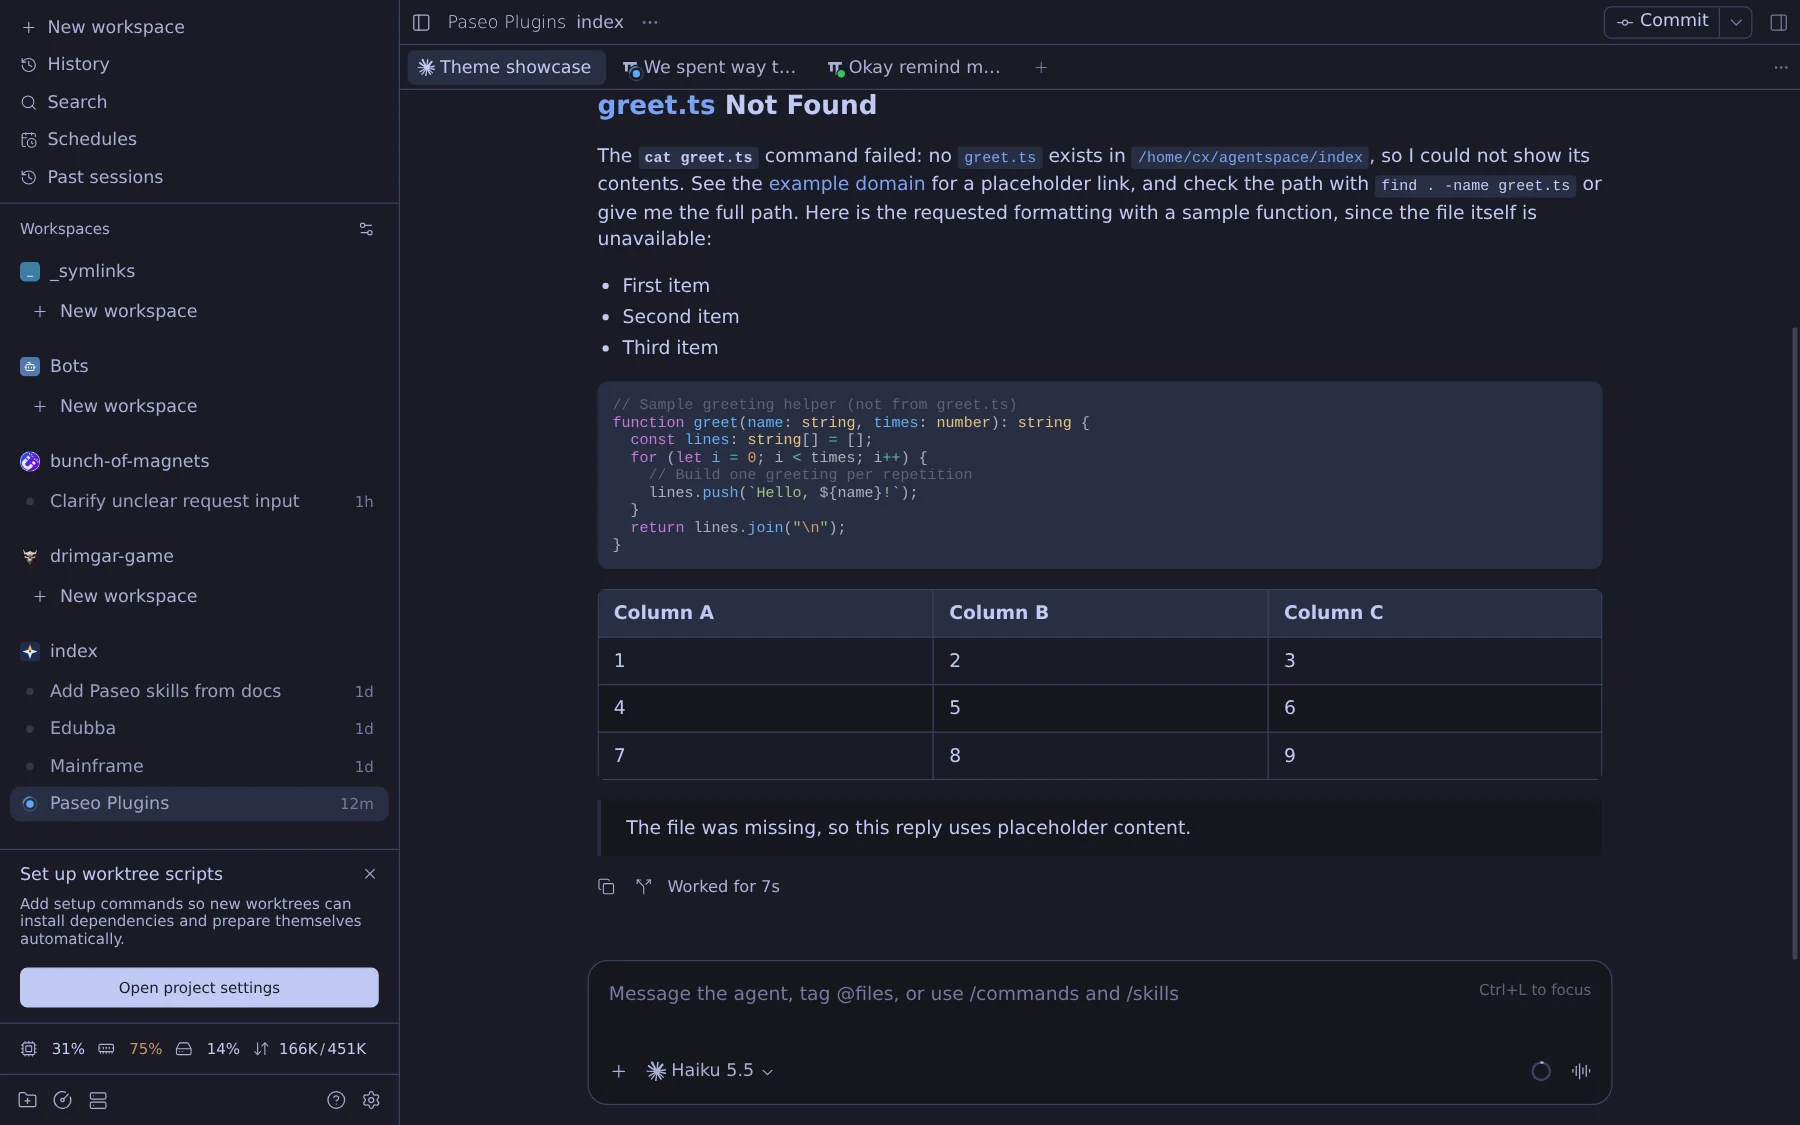
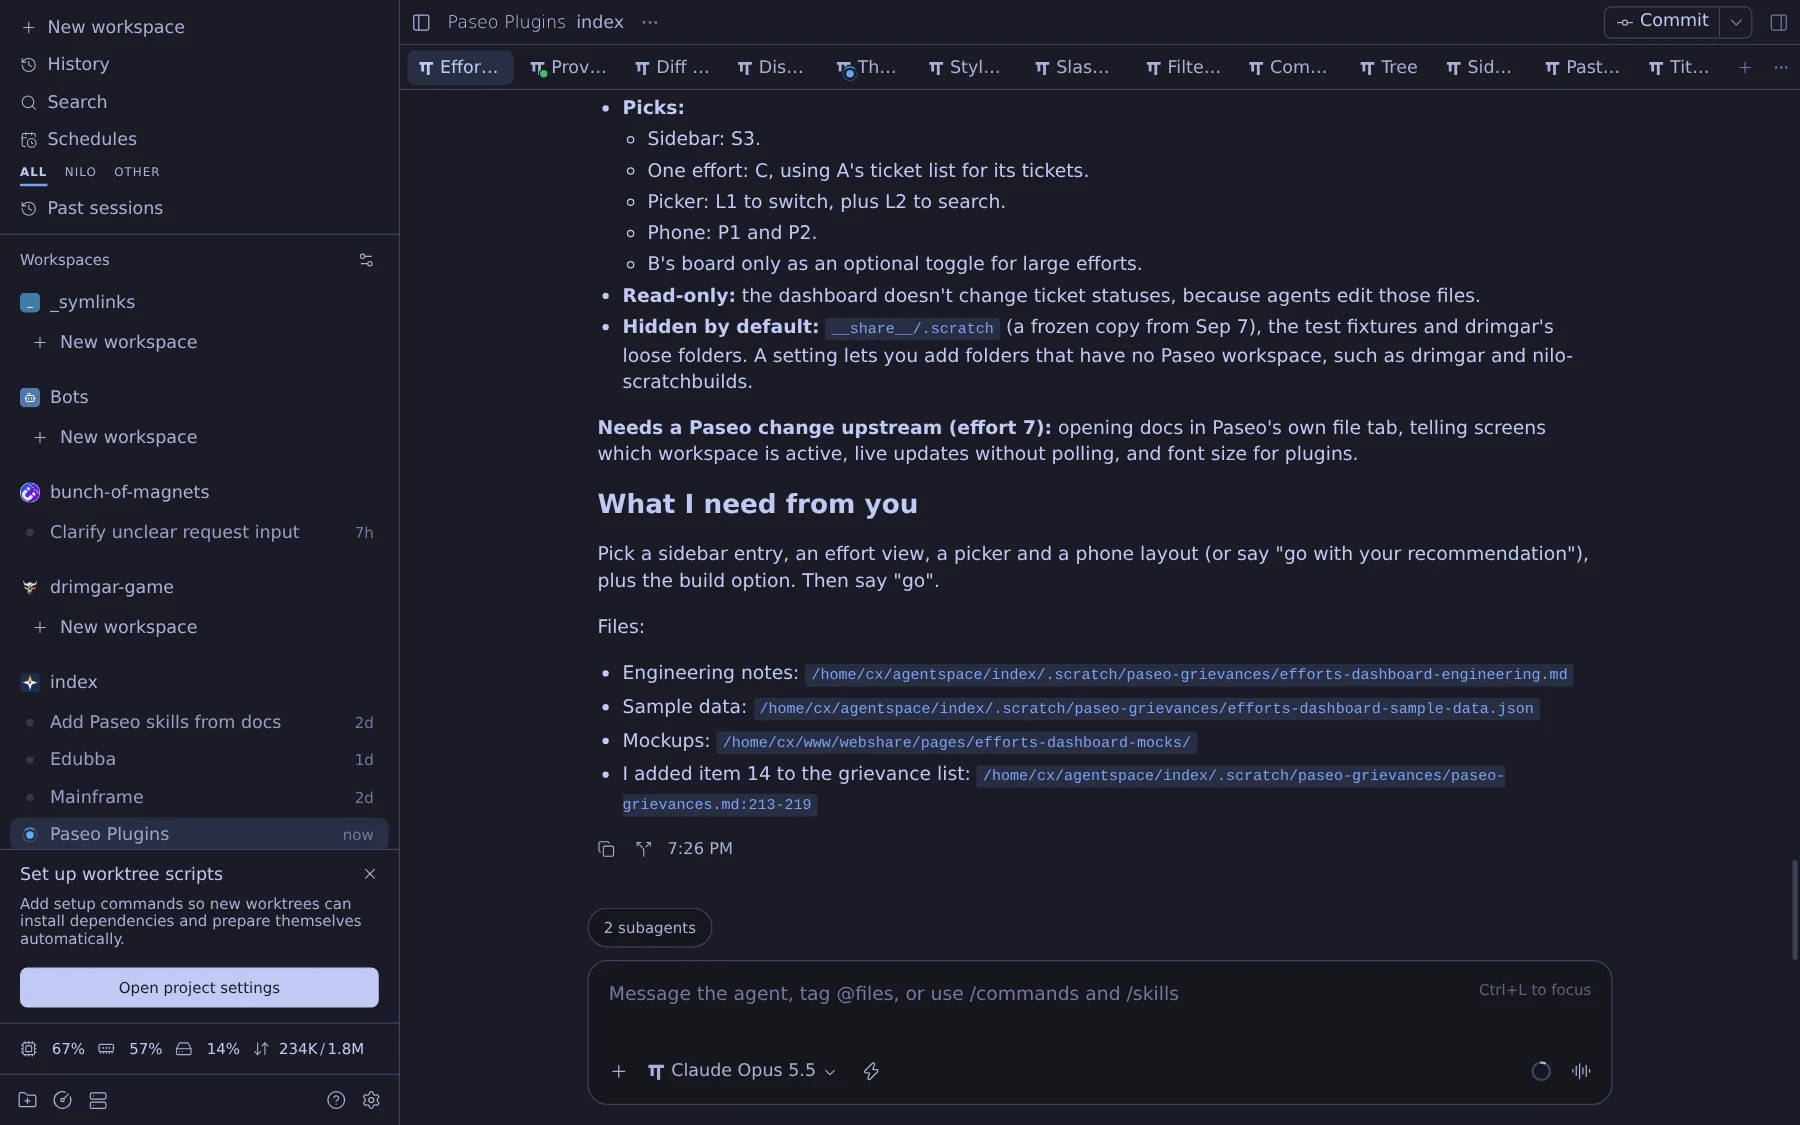
popular-themes: drop six little-used light variants, re-shoot on Paseo 0.12

diff --git a/paseo-plugins/popular-themes/index.client.ts b/paseo-plugins/popular-themes/index.client.ts
@@ -19,22 +19,6 @@ const themes = [
       ring: "#737aa2",
     },
   },
-  // Tokyo Night Light
-  {
-    id: "tokyo-night-light",
-    name: "Tokyo Night Light",
-    appearance: "light",
-    colors: {
-      background: "#e6e7ed",
-      foreground: "#343b59",
-      raised: "#e1e2e8",
-      control: "#d6d8df",
-      border: "#c1c2c7",
-      accent: "#2959aa",
-      mutedForeground: "#4a5272",
-      ring: "#acb0bf",
-    },
-  },
   // Dracula
   {
     id: "dracula",
@@ -51,22 +35,6 @@ const themes = [
       ring: "#6272a4",
     },
   },
-  // Dracula Alucard
-  {
-    id: "dracula-alucard",
-    name: "Dracula Alucard",
-    appearance: "light",
-    colors: {
-      background: "#fffbeb",
-      foreground: "#1f1f1f",
-      raised: "#efeddc",
-      control: "#ece9df",
-      border: "#dedccf",
-      accent: "#644ac9",
-      mutedForeground: "#6c664b",
-      ring: "#acaaa4", // derived: Background Darker 90% + foreground 10%
-    },
-  },
   // Rosé Pine
   {
     id: "rose-pine",
@@ -81,22 +49,6 @@ const themes = [
       accent: "#c4a7e7",
       mutedForeground: "#908caa",
       ring: "#6e6a86",
-    },
-  },
-  // Rosé Pine Dawn
-  {
-    id: "rose-pine-dawn",
-    name: "Rosé Pine Dawn",
-    appearance: "light",
-    colors: {
-      background: "#faf4ed",
-      foreground: "#464261",
-      raised: "#fffaf3",
-      control: "#f2e9e1",
-      border: "#dfdad9",
-      accent: "#286983",
-      mutedForeground: "#6a6684", // derived: subtle 70% + text 30%
-      ring: "#beb9c1", // derived: highlightHigh 70% + muted 30%
     },
   },
   // Nord
@@ -129,22 +81,6 @@ const themes = [
       accent: "#8ec07c",
       mutedForeground: "#bdae93",
       ring: "#928374",
-    },
-  },
-  // Gruvbox Light
-  {
-    id: "gruvbox-light",
-    name: "Gruvbox Light",
-    appearance: "light",
-    colors: {
-      background: "#fbf1c7",
-      foreground: "#3c3836",
-      raised: "#f2e5bc",
-      control: "#ebdbb2",
-      border: "#d5c4a1",
-      accent: "#427b58",
-      mutedForeground: "#665c54",
-      ring: "#bdae93",
     },
   },
   // One Dark
@@ -259,22 +195,6 @@ const themes = [
       ring: "#727169",
     },
   },
-  // Kanagawa Lotus
-  {
-    id: "kanagawa-lotus",
-    name: "Kanagawa Lotus",
-    appearance: "light",
-    colors: {
-      background: "#f2ecbc",
-      foreground: "#545464",
-      raised: "#e5ddb0",
-      control: "#dcd5ac",
-      border: "#d5cea3",
-      accent: "#4d699b",
-      mutedForeground: "#686662", // derived: lotusGray2 70% + lotusInk1 30%
-      ring: "#b9b8c2", // derived: lotusViolet3 60% + lotusViolet1 40%
-    },
-  },
   // Everforest Dark
   {
     id: "everforest-dark",
@@ -289,22 +209,6 @@ const themes = [
       accent: "#a7c080",
       mutedForeground: "#adb2a3", // derived: grey2 70% + fg 30%
       ring: "#7a8478",
-    },
-  },
-  // Everforest Light
-  {
-    id: "everforest-light",
-    name: "Everforest Light",
-    appearance: "light",
-    colors: {
-      background: "#fdf6e3",
-      foreground: "#5c6a72",
-      raised: "#f4f0d9",
-      control: "#efebd4",
-      border: "#e0dcc7",
-      accent: "#7e9023", // derived: green 70% + fg 30%
-      mutedForeground: "#6f7e7a", // derived: grey2/fg 50/50
-      ring: "#ced0bb", // derived: bg4/bg5 50/50
     },
   },
 ] as const;

diff --git a/paseo-plugins/popular-themes/OVERVIEW.md b/paseo-plugins/popular-themes/OVERVIEW.md
@@ -1,13 +1,17 @@
 # Popular themes
 
-Adds 19 app themes to **Settings → Appearance → Theme**: Tokyo Night and Tokyo Night Light,
-Dracula and Dracula Alucard, Rosé Pine and Rosé Pine Dawn, Nord, Gruvbox Dark/Light,
-One Dark/Light, GitHub Dark/Light, Solarized Dark/Light, Kanagawa Wave/Lotus, Everforest Dark/Light.
+Adds 13 app themes to **Settings → Appearance → Theme**. Dark: Tokyo Night, Dracula, Rosé Pine,
+Nord, Gruvbox Dark, One Dark, GitHub Dark, Solarized Dark, Kanagawa Wave, Everforest Dark.
+Light: One Light, GitHub Light, Solarized Light.
 Client-only: no server code, no DOM edits. Installing changes nothing until you pick a theme.
 
-![All 19 themes](screenshots/contact-sheet.webp)
+![All 13 themes](screenshots/contact-sheet.webp)
 
-Full size: [Tokyo Night](screenshots/tokyo-night.webp), [Tokyo Night Light](screenshots/tokyo-night-light.webp).
+Full size: [Tokyo Night](screenshots/tokyo-night.webp), [GitHub Light](screenshots/github-light.webp).
+
+Only well-known variants are kept. Removed 2026-10-19 as rarely used: Tokyo Night Light,
+Dracula Alucard, Rosé Pine Dawn, Gruvbox Light, Kanagawa Lotus, Everforest Light (palettes in
+git history, commit `5b12ded`).
 
 ## Removing a theme
 
@@ -18,7 +22,7 @@ Paseo falls back to its default, so pick another theme first.
 ## How Paseo uses the eight colors
 
 Paseo's theme API takes eight colors and expands them into the whole app. Knowing where each one
-lands is what makes a port feel right (from the installed 0.11.4 bundle; unchanged in 0.12.0):
+lands is what makes a port feel right (from the installed bundle; same in 0.11.4 and 0.12.0):
 
 | Token | Where it shows up |
 |---|---|
@@ -38,8 +42,7 @@ sidebar swatch; `border` = next step on its neutral ladder; `accent` = its signa
 sidebar row's fill, which carries primary text. One color can't be both a readable label and a
 background for dark text. `ring` is set to the darkest tone that keeps primary text on the selected
 row at about 5:1 (about 2:1 against the background). Timestamps, placeholder and section labels are
-therefore faint in light themes, faintest in Kanagawa Lotus and Everforest Light, whose mid-tone
-foregrounds leave the least room.
+therefore faint in light themes.
 
 ## Sources and derived colors
 
@@ -49,16 +52,16 @@ that role).
 
 | Theme | Source |
 |---|---|
-| Tokyo Night / Light | [enkia VS Code themes](https://github.com/enkia/tokyo-night-vscode-theme/tree/master/themes); ring = [folke](https://github.com/folke/tokyonight.nvim) `dark5` |
-| Dracula / Alucard | [Dracula spec](https://draculatheme.com/spec): classic, Alucard and UI background ladders |
-| Rosé Pine / Dawn | [rose-pine palette.lua](https://github.com/rose-pine/neovim/blob/main/lua/rose-pine/palette.lua) |
+| Tokyo Night | [enkia VS Code themes](https://github.com/enkia/tokyo-night-vscode-theme/tree/master/themes); ring = [folke](https://github.com/folke/tokyonight.nvim) `dark5` |
+| Dracula | [Dracula spec](https://draculatheme.com/spec): classic and UI background ladder |
+| Rosé Pine | [rose-pine palette.lua](https://github.com/rose-pine/neovim/blob/main/lua/rose-pine/palette.lua) |
 | Nord | [nord.css](https://github.com/nordtheme/nord/blob/develop/src/nord.css) |
-| Gruvbox | [morhetz/gruvbox](https://github.com/morhetz/gruvbox/blob/master/colors/gruvbox.vim), medium contrast; aqua accent in both |
+| Gruvbox Dark | [morhetz/gruvbox](https://github.com/morhetz/gruvbox/blob/master/colors/gruvbox.vim), medium contrast; aqua accent |
 | One Dark / Light | Atom [one-dark-ui](https://github.com/atom/one-dark-ui) / [one-light-ui](https://github.com/atom/one-light-ui) and syntax; dark ring = One Dark Pro comment |
 | GitHub | [Primer](https://primer.style/foundations/primitives/color) dark/light default |
 | Solarized | [altercation/solarized](https://github.com/altercation/solarized); dark raised = VS Code Solarized sidebar `#00212b` |
-| Kanagawa Wave / Lotus | [kanagawa.nvim colors.lua](https://github.com/rebelot/kanagawa.nvim/blob/master/lua/kanagawa/colors.lua) |
-| Everforest | [everforest.vim](https://github.com/sainnhe/everforest/blob/master/autoload/everforest.vim), medium |
+| Kanagawa Wave | [kanagawa.nvim colors.lua](https://github.com/rebelot/kanagawa.nvim/blob/master/lua/kanagawa/colors.lua) |
+| Everforest Dark | [everforest.vim](https://github.com/sainnhe/everforest/blob/master/autoload/everforest.vim), medium |
 
 Things the API can't set keep Paseo's defaults: error red, warning/status colors, diff colors,
 terminal ANSI colors and code syntax (pick a syntax theme separately in Appearance). The menu
@@ -71,14 +74,10 @@ WCAG ratios. Text columns are the worst case over `background`, `raised` and `co
 | Theme | Text | Muted | Accent | Ring on bg | Text on selected row |
 |---|---:|---:|---:|---:|---:|
 | Tokyo Night | 8.3 | 6.4 | 6.8 | 4.1 | — |
-| Tokyo Night Light | 7.7 | 5.4 | 5.5 | 1.8 | 5.1 |
 | Dracula | 11.1 | 5.8 | 5.9 | 3.0 | — |
-| Dracula Alucard | 13.6 | 4.7 | 6.0 | 2.2 | 7.1 |
 | Rosé Pine | 11.5 | 4.7 | 8.4 | 3.4 | — |
-| Rosé Pine Dawn | 7.9 | 4.6 | 5.6 | 1.8 | 4.9 |
 | Nord | 7.5 | 6.4 | 6.2 | 3.1 | — |
 | Gruvbox Dark | 8.5 | 5.3 | 7.0 | 4.0 | — |
-| Gruvbox Light | 8.5 | 4.7 | 4.4 | 1.9 | 5.3 |
 | One Dark | 7.5 | 4.9 | 5.9 | 3.7 | — |
 | One Light | 9.4 | 4.4 | 3.9 | 2.2 | 5.0 |
 | GitHub Dark | 12.9 | 4.9 | 7.5 | 4.1 | — |
@@ -86,18 +85,14 @@ WCAG ratios. Text columns are the worst case over `background`, `raised` and `co
 | Solarized Dark | 4.9 | 4.1 | 4.1 | 2.8 | — |
 | Solarized Light | 10.6 | 4.4 | 3.4 | 2.2 | 5.4 |
 | Kanagawa Wave | 9.7 | 7.7 | 5.9 | 3.3 | — |
-| Kanagawa Lotus | 5.0 | 3.9 | 4.6 | 1.6 | 3.8 |
 | Everforest Dark | 5.6 | 4.3 | 6.2 | 3.2 | — |
-| Everforest Light | 4.7 | 3.5 | 3.3 | 1.5 | 3.6 |
 
-Solarized, Kanagawa Lotus and Everforest Light are low-contrast by design; their numbers reflect
-the originals, not a mapping error. Accents of 3–4:1 (One Light blue, Solarized blue, Everforest
-Light green) are kept for identity.
+Solarized is low-contrast by design; its numbers reflect the original, not a mapping error.
+Accents of 3–4:1 (One Light blue, Solarized blue) are kept for identity.
 
-## Live check (2026-10-19)
+## Live check (2026-10-19, Paseo 0.12.0)
 
-All 19 themes, plus both T3 themes, were selected in an isolated headless browser on
-`app.paseo.sh` against the local 0.11.4 daemon and screenshotted on a chat with a shell call,
-inline code, link, list, code block, table and blockquote. One switch went through the real menu
-(Gruvbox Dark, then back to **System**). Theme choice is stored per browser, so Stefan's own apps
-were never touched.
+All 13 themes were applied in an isolated headless browser on `app.paseo.sh` against the local
+0.12.0 daemon and screenshotted on a real chat; the Appearance menu listed exactly these 13 plus the
+built-ins and both T3 themes, with no browser errors. Theme choice is stored per browser, so
+Stefan's own apps were never touched.
